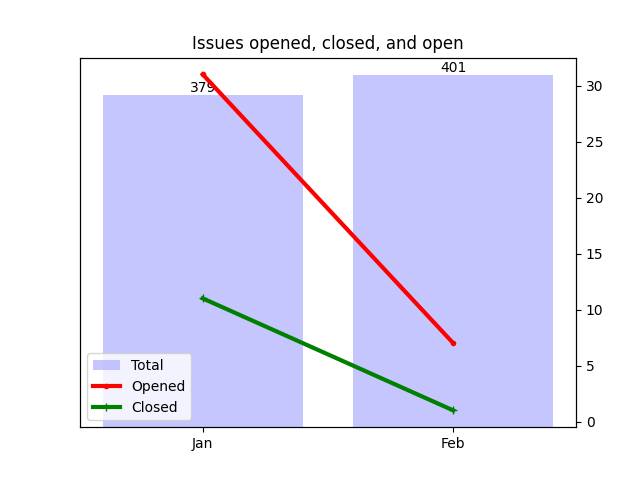
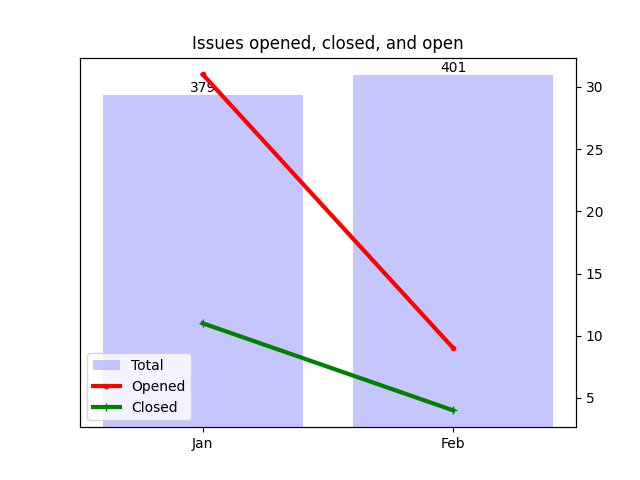
Apply automatic changes

diff --git a/docs/analytics.html b/docs/analytics.html
@@ -74,8 +74,8 @@ td .material-icons { display:inline-flex; vertical-align: top; font-size:1.1rem;
 						</tr>
 						<tr>
 							<td>Feb</td>
-							<td>7</td>
-							<td>1</td>
+							<td>9</td>
+							<td>4</td>
 						</tr>
 					</table>
 				</div>
@@ -123,6 +123,12 @@ td .material-icons { display:inline-flex; vertical-align: top; font-size:1.1rem;
 						</tr>
 						<tr>
 							<td>
+								<a href="http://github.com/notofonts/hebrew/issues">hebrew</a>
+							</td>
+							<td>10</td>
+						</tr>
+						<tr>
+							<td>
 								<a href="http://github.com/notofonts/nastaliq/issues">nastaliq</a>
 							</td>
 							<td>10</td>
@@ -132,12 +138,6 @@ td .material-icons { display:inline-flex; vertical-align: top; font-size:1.1rem;
 								<a href="http://github.com/notofonts/tirhuta/issues">tirhuta</a>
 							</td>
 							<td>10</td>
-						</tr>
-						<tr>
-							<td>
-								<a href="http://github.com/notofonts/hebrew/issues">hebrew</a>
-							</td>
-							<td>9</td>
 						</tr>
 						<tr>
 							<td>
@@ -166,31 +166,31 @@ td .material-icons { display:inline-flex; vertical-align: top; font-size:1.1rem;
 				<tr>
 					<td>1</td>
 					<td>
-						<a href="http://github.com/notofonts/bamum/issues">bamum</a>,  						<a href="http://github.com/notofonts/canadian-aboriginal/issues">canadian-aboriginal</a>,  						<a href="http://github.com/notofonts/chakma/issues">chakma</a>,  						<a href="http://github.com/notofonts/chorasmian/issues">chorasmian</a>,  						<a href="http://github.com/notofonts/deseret/issues">deseret</a>,  						<a href="http://github.com/notofonts/dogra/issues">dogra</a>,  						<a href="http://github.com/notofonts/elbasan/issues">elbasan</a>,  						<a href="http://github.com/notofonts/ethiopic/issues">ethiopic</a>,  						<a href="http://github.com/notofonts/georgian/issues">georgian</a>,  						<a href="http://github.com/notofonts/glagolitic/issues">glagolitic</a>,  						<a href="http://github.com/notofonts/hanunoo/issues">hanunoo</a>,  						<a href="http://github.com/notofonts/kharoshthi/issues">kharoshthi</a>,  						<a href="http://github.com/notofonts/khitan-small-script/issues">khitan-small-script</a>,  						<a href="http://github.com/notofonts/khudawadi/issues">khudawadi</a>,  						<a href="http://github.com/notofonts/lydian/issues">lydian</a>,  						<a href="http://github.com/notofonts/meetei-mayek/issues">meetei-mayek</a>,  						<a href="http://github.com/notofonts/miao/issues">miao</a>,  						<a href="http://github.com/notofonts/mongolian/issues">mongolian</a>,  						<a href="http://github.com/notofonts/multani/issues">multani</a>,  						<a href="http://github.com/notofonts/music/issues">music</a>,  						<a href="http://github.com/notofonts/nko/issues">nko</a>,  						<a href="http://github.com/notofonts/old-italic/issues">old-italic</a>,  						<a href="http://github.com/notofonts/pahawh-hmong/issues">pahawh-hmong</a>,  						<a href="http://github.com/notofonts/phags-pa/issues">phags-pa</a>,  						<a href="http://github.com/notofonts/rejang/issues">rejang</a>,  						<a href="http://github.com/notofonts/saurashtra/issues">saurashtra</a>,  						<a href="http://github.com/notofonts/sogdian/issues">sogdian</a>,  						<a href="http://github.com/notofonts/sundanese/issues">sundanese</a>,  						<a href="http://github.com/notofonts/tai-le/issues">tai-le</a>,  						<a href="http://github.com/notofonts/tai-tham/issues">tai-tham</a>,  						<a href="http://github.com/notofonts/takri/issues">takri</a>,  						<a href="http://github.com/notofonts/tangsa/issues">tangsa</a>,  						<a href="http://github.com/notofonts/tangut/issues">tangut</a> 
+						<a href="http://github.com/notofonts/armenian/issues">armenian</a>,  						<a href="http://github.com/notofonts/bamum/issues">bamum</a>,  						<a href="http://github.com/notofonts/canadian-aboriginal/issues">canadian-aboriginal</a>,  						<a href="http://github.com/notofonts/chakma/issues">chakma</a>,  						<a href="http://github.com/notofonts/chorasmian/issues">chorasmian</a>,  						<a href="http://github.com/notofonts/deseret/issues">deseret</a>,  						<a href="http://github.com/notofonts/dogra/issues">dogra</a>,  						<a href="http://github.com/notofonts/elbasan/issues">elbasan</a>,  						<a href="http://github.com/notofonts/ethiopic/issues">ethiopic</a>,  						<a href="http://github.com/notofonts/georgian/issues">georgian</a>,  						<a href="http://github.com/notofonts/glagolitic/issues">glagolitic</a>,  						<a href="http://github.com/notofonts/hanunoo/issues">hanunoo</a>,  						<a href="http://github.com/notofonts/kharoshthi/issues">kharoshthi</a>,  						<a href="http://github.com/notofonts/khitan-small-script/issues">khitan-small-script</a>,  						<a href="http://github.com/notofonts/khudawadi/issues">khudawadi</a>,  						<a href="http://github.com/notofonts/lydian/issues">lydian</a>,  						<a href="http://github.com/notofonts/meetei-mayek/issues">meetei-mayek</a>,  						<a href="http://github.com/notofonts/miao/issues">miao</a>,  						<a href="http://github.com/notofonts/mongolian/issues">mongolian</a>,  						<a href="http://github.com/notofonts/multani/issues">multani</a>,  						<a href="http://github.com/notofonts/music/issues">music</a>,  						<a href="http://github.com/notofonts/nko/issues">nko</a>,  						<a href="http://github.com/notofonts/old-italic/issues">old-italic</a>,  						<a href="http://github.com/notofonts/pahawh-hmong/issues">pahawh-hmong</a>,  						<a href="http://github.com/notofonts/phags-pa/issues">phags-pa</a>,  						<a href="http://github.com/notofonts/rejang/issues">rejang</a>,  						<a href="http://github.com/notofonts/saurashtra/issues">saurashtra</a>,  						<a href="http://github.com/notofonts/sogdian/issues">sogdian</a>,  						<a href="http://github.com/notofonts/sundanese/issues">sundanese</a>,  						<a href="http://github.com/notofonts/tai-le/issues">tai-le</a>,  						<a href="http://github.com/notofonts/tai-tham/issues">tai-tham</a>,  						<a href="http://github.com/notofonts/takri/issues">takri</a>,  						<a href="http://github.com/notofonts/tangsa/issues">tangsa</a>,  						<a href="http://github.com/notofonts/tangut/issues">tangut</a> 
 					</td>
 				</tr>
 				<tr>
 					<td>2</td>
 					<td>
-						<a href="http://github.com/notofonts/armenian/issues">armenian</a>,  						<a href="http://github.com/notofonts/brahmi/issues">brahmi</a>,  						<a href="http://github.com/notofonts/coptic/issues">coptic</a>,  						<a href="http://github.com/notofonts/duployan/issues">duployan</a>,  						<a href="http://github.com/notofonts/grantha/issues">grantha</a>,  						<a href="http://github.com/notofonts/khojki/issues">khojki</a>,  						<a href="http://github.com/notofonts/old-hungarian-ui/issues">old-hungarian-ui</a>,  						<a href="http://github.com/notofonts/old-turkic/issues">old-turkic</a>,  						<a href="http://github.com/notofonts/oriya/issues">oriya</a>,  						<a href="http://github.com/notofonts/sign-writing/issues">sign-writing</a>,  						<a href="http://github.com/notofonts/tagalog/issues">tagalog</a>,  						<a href="http://github.com/notofonts/tamil/issues">tamil</a>,  						<a href="http://github.com/notofonts/tifinagh/issues">tifinagh</a> 
+						<a href="http://github.com/notofonts/brahmi/issues">brahmi</a>,  						<a href="http://github.com/notofonts/coptic/issues">coptic</a>,  						<a href="http://github.com/notofonts/duployan/issues">duployan</a>,  						<a href="http://github.com/notofonts/grantha/issues">grantha</a>,  						<a href="http://github.com/notofonts/khojki/issues">khojki</a>,  						<a href="http://github.com/notofonts/old-hungarian-ui/issues">old-hungarian-ui</a>,  						<a href="http://github.com/notofonts/old-turkic/issues">old-turkic</a>,  						<a href="http://github.com/notofonts/oriya/issues">oriya</a>,  						<a href="http://github.com/notofonts/sign-writing/issues">sign-writing</a>,  						<a href="http://github.com/notofonts/tagalog/issues">tagalog</a>,  						<a href="http://github.com/notofonts/tamil/issues">tamil</a> 
 					</td>
 				</tr>
 				<tr>
 					<td>3</td>
 					<td>
-						<a href="http://github.com/notofonts/ahom/issues">ahom</a>,  						<a href="http://github.com/notofonts/manichaean/issues">manichaean</a>,  						<a href="http://github.com/notofonts/nandinagari/issues">nandinagari</a>,  						<a href="http://github.com/notofonts/sharada/issues">sharada</a>,  						<a href="http://github.com/notofonts/siddham/issues">siddham</a> 
+						<a href="http://github.com/notofonts/ahom/issues">ahom</a>,  						<a href="http://github.com/notofonts/manichaean/issues">manichaean</a>,  						<a href="http://github.com/notofonts/nandinagari/issues">nandinagari</a>,  						<a href="http://github.com/notofonts/sharada/issues">sharada</a>,  						<a href="http://github.com/notofonts/siddham/issues">siddham</a>,  						<a href="http://github.com/notofonts/thai/issues">thai</a>,  						<a href="http://github.com/notofonts/tifinagh/issues">tifinagh</a> 
 					</td>
 				</tr>
 				<tr>
 					<td>4</td>
 					<td>
-						<a href="http://github.com/notofonts/batak/issues">batak</a>,  						<a href="http://github.com/notofonts/javanese/issues">javanese</a>,  						<a href="http://github.com/notofonts/kawi/issues">kawi</a>,  						<a href="http://github.com/notofonts/soyombo/issues">soyombo</a>,  						<a href="http://github.com/notofonts/thai/issues">thai</a>,  						<a href="http://github.com/notofonts/tibetan/issues">tibetan</a> 
+						<a href="http://github.com/notofonts/balinese/issues">balinese</a>,  						<a href="http://github.com/notofonts/batak/issues">batak</a>,  						<a href="http://github.com/notofonts/javanese/issues">javanese</a>,  						<a href="http://github.com/notofonts/kawi/issues">kawi</a>,  						<a href="http://github.com/notofonts/soyombo/issues">soyombo</a>,  						<a href="http://github.com/notofonts/tibetan/issues">tibetan</a> 
 					</td>
 				</tr>
 				<tr>
 					<td>5</td>
 					<td>
-						<a href="http://github.com/notofonts/arabic/issues">arabic</a>,  						<a href="http://github.com/notofonts/balinese/issues">balinese</a>,  						<a href="http://github.com/notofonts/bhaiksuki/issues">bhaiksuki</a>,  						<a href="http://github.com/notofonts/gurmukhi/issues">gurmukhi</a>,  						<a href="http://github.com/notofonts/old-hungarian/issues">old-hungarian</a>,  						<a href="http://github.com/notofonts/syloti-nagri/issues">syloti-nagri</a>,  						<a href="http://github.com/notofonts/telugu/issues">telugu</a> 
+						<a href="http://github.com/notofonts/arabic/issues">arabic</a>,  						<a href="http://github.com/notofonts/bhaiksuki/issues">bhaiksuki</a>,  						<a href="http://github.com/notofonts/gurmukhi/issues">gurmukhi</a>,  						<a href="http://github.com/notofonts/old-hungarian/issues">old-hungarian</a>,  						<a href="http://github.com/notofonts/syloti-nagri/issues">syloti-nagri</a>,  						<a href="http://github.com/notofonts/telugu/issues">telugu</a> 
 					</td>
 				</tr>
 				<tr>
@@ -214,13 +214,13 @@ td .material-icons { display:inline-flex; vertical-align: top; font-size:1.1rem;
 				<tr>
 					<td>9</td>
 					<td>
-						<a href="http://github.com/notofonts/hebrew/issues">hebrew</a>,  						<a href="http://github.com/notofonts/malayalam/issues">malayalam</a> 
+						<a href="http://github.com/notofonts/malayalam/issues">malayalam</a> 
 					</td>
 				</tr>
 				<tr>
 					<td>10</td>
 					<td>
-						<a href="http://github.com/notofonts/egyptian-hieroglyphs/issues">egyptian-hieroglyphs</a>,  						<a href="http://github.com/notofonts/nastaliq/issues">nastaliq</a>,  						<a href="http://github.com/notofonts/tirhuta/issues">tirhuta</a> 
+						<a href="http://github.com/notofonts/egyptian-hieroglyphs/issues">egyptian-hieroglyphs</a>,  						<a href="http://github.com/notofonts/hebrew/issues">hebrew</a>,  						<a href="http://github.com/notofonts/nastaliq/issues">nastaliq</a>,  						<a href="http://github.com/notofonts/tirhuta/issues">tirhuta</a> 
 					</td>
 				</tr>
 			</table>
@@ -237,9 +237,9 @@ td .material-icons { display:inline-flex; vertical-align: top; font-size:1.1rem;
 							<td>
 									<a href="http://github.com/notofonts/latin-greek-cyrillic/issues">latin-greek-cyrillic</a>: 117, 
 
-									<a href="http://github.com/notofonts/nastaliq/issues">nastaliq</a>: 10, 
+									<a href="http://github.com/notofonts/hebrew/issues">hebrew</a>: 10, 
 
-									<a href="http://github.com/notofonts/hebrew/issues">hebrew</a>: 9, 
+									<a href="http://github.com/notofonts/nastaliq/issues">nastaliq</a>: 10, 
 
 									<a href="http://github.com/notofonts/malayalam/issues">malayalam</a>: 9, 
 
@@ -257,11 +257,11 @@ td .material-icons { display:inline-flex; vertical-align: top; font-size:1.1rem;
 
 									<a href="http://github.com/notofonts/telugu/issues">telugu</a>: 5, 
 
-									<a href="http://github.com/notofonts/armenian/issues">armenian</a>: 2, 
-
 									<a href="http://github.com/notofonts/oriya/issues">oriya</a>: 2, 
 
-									<a href="http://github.com/notofonts/tamil/issues">tamil</a>: 2
+									<a href="http://github.com/notofonts/tamil/issues">tamil</a>: 2, 
+
+									<a href="http://github.com/notofonts/armenian/issues">armenian</a>: 1
 							</td>
 						</tr>
 						<tr>
@@ -269,9 +269,9 @@ td .material-icons { display:inline-flex; vertical-align: top; font-size:1.1rem;
 							<td>
 									<a href="http://github.com/notofonts/myanmar/issues">myanmar</a>: 31, 
 
-									<a href="http://github.com/notofonts/balinese/issues">balinese</a>: 5, 
+									<a href="http://github.com/notofonts/balinese/issues">balinese</a>: 4, 
 
-									<a href="http://github.com/notofonts/thai/issues">thai</a>: 4, 
+									<a href="http://github.com/notofonts/thai/issues">thai</a>: 3, 
 
 									<a href="http://github.com/notofonts/ethiopic/issues">ethiopic</a>: 1, 
 
@@ -303,6 +303,8 @@ td .material-icons { display:inline-flex; vertical-align: top; font-size:1.1rem;
 
 									<a href="http://github.com/notofonts/siddham/issues">siddham</a>: 3, 
 
+									<a href="http://github.com/notofonts/tifinagh/issues">tifinagh</a>: 3, 
+
 									<a href="http://github.com/notofonts/coptic/issues">coptic</a>: 2, 
 
 									<a href="http://github.com/notofonts/duployan/issues">duployan</a>: 2, 
@@ -312,8 +314,6 @@ td .material-icons { display:inline-flex; vertical-align: top; font-size:1.1rem;
 									<a href="http://github.com/notofonts/sign-writing/issues">sign-writing</a>: 2, 
 
 									<a href="http://github.com/notofonts/tagalog/issues">tagalog</a>: 2, 
-
-									<a href="http://github.com/notofonts/tifinagh/issues">tifinagh</a>: 2, 
 
 									<a href="http://github.com/notofonts/bamum/issues">bamum</a>: 1, 
 
